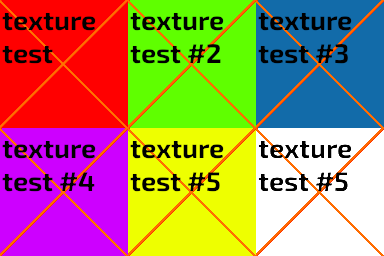
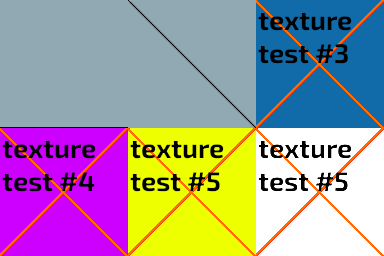
Block nr 1 is for user purpose

diff --git a/src/Map.cpp b/src/Map.cpp
@@ -10,7 +10,7 @@ Map::Map() {
 void Map::draw(sf::RenderTarget &target, sf::RenderStates states) const {
     for(uint y = 0; y < map.size(); y++) {
         for(uint x = 0; x < map[0].size(); x++) {
-            if(map[y][x] != 0 && map[y][x] != 1) {
+            if(map[y][x] != 0) {
                 sprite.setTextureRect(sf::IntRect(blocksProperties[map[y][x]].imageX, blocksProperties[map[y][x]].imageY, 128, 128));
                 sprite.setPosition(x * PIXELS_PER_UNIT, y * PIXELS_PER_UNIT);
 
@@ -38,13 +38,13 @@ void Map::load(std::string path) {
     //textures of blocks
     config.setPath(path + "blocks.ini");
     uint quantity = config.getNumberOfSections();
-    if(quantity > 254) {
-        Console::pushMessage("Too many blocks! Maximum is 254.");
-        quantity = 254;
+    if(quantity > 255) {
+        Console::pushMessage("Too many blocks! Maximum is 255.");
+        quantity = 255;
     }
     blocksProperties.clear();
 
-    for(uint i = 2; i < quantity + 2; i++) {
+    for(uint i = 1; i < quantity + 2; i++) {
         blocksProperties[i].imageX = config.readInt("Block" + std::to_string(i), "x", 0);
         blocksProperties[i].imageY = config.readInt("Block" + std::to_string(i), "y", 0);
         blocksProperties[i].solid = config.readInt("Block" + std::to_string(i), "solid", true);
